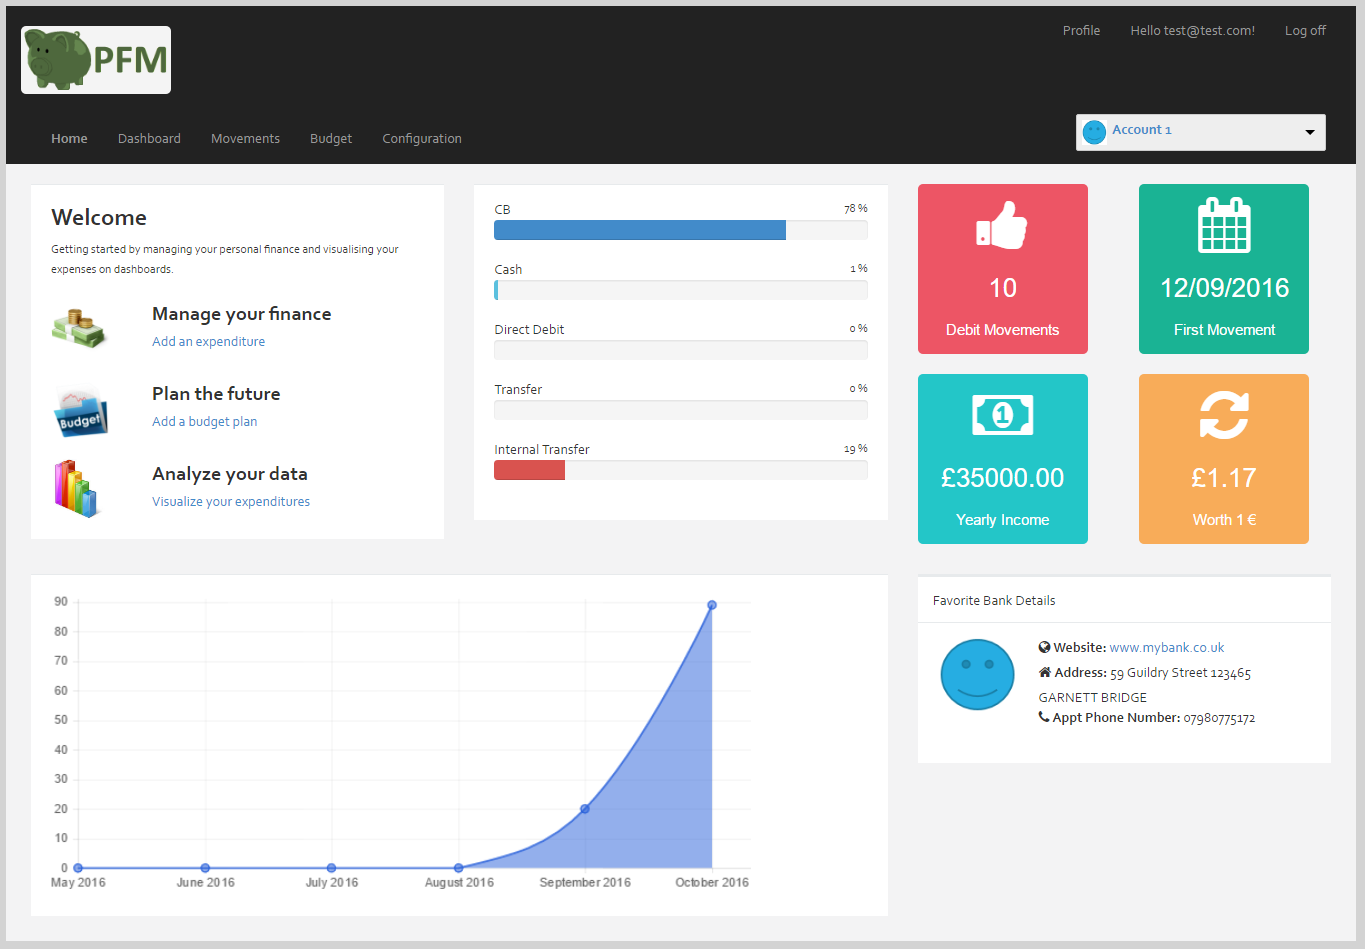
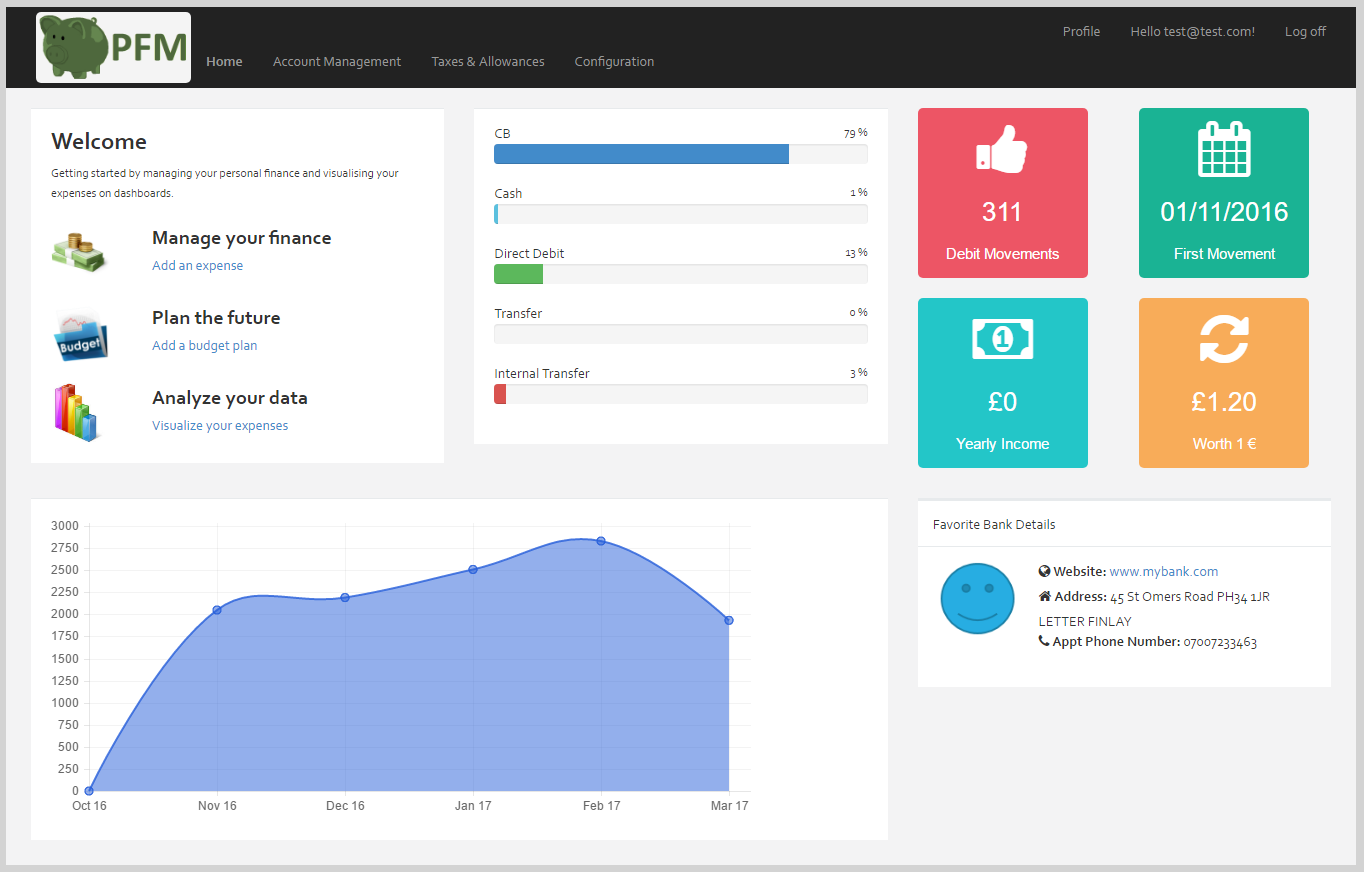
Fixing few bugs and updating the documentation

diff --git a/PersonalFinanceManager/Controllers/HomeController.cs b/PersonalFinanceManager/Controllers/HomeController.cs
@@ -42,7 +42,7 @@ namespace PersonalFinanceManager.Controllers
 
             var model = new HomePageModel();
 
-            var debitMvts = this._expenditureService.GetExpenditures(new Models.SearchParameters.ExpenditureGetListSearchParameters());
+            var debitMvts = this._expenditureService.GetExpenditures(new Models.SearchParameters.ExpenditureGetListSearchParameters() { UserId = CurrentUser });
 
             if (debitMvts.Count != 0)
             {
@@ -127,7 +127,7 @@ namespace PersonalFinanceManager.Controllers
             var intervalsByMonth = interval.GetIntervalsByMonth();
 
             var dataSetActualExpenditures = new ChartDataset();
-            var expenditures = _expenditureService.GetExpenditures(new Models.SearchParameters.ExpenditureGetListSearchParameters() { StartDate=interval.StartDate, EndDate=interval.EndDate });
+            var expenditures = _expenditureService.GetExpenditures(new Models.SearchParameters.ExpenditureGetListSearchParameters() { UserId = CurrentUser, StartDate = interval.StartDate, EndDate=interval.EndDate });
             foreach (var intervalByMonth in intervalsByMonth)
             {
                 var expendituresByMonth = expenditures.Where(x => intervalByMonth.Value.IsBetween(x.DateExpenditure));

diff --git a/PersonalFinanceManager.Services/ExpenditureService.cs b/PersonalFinanceManager.Services/ExpenditureService.cs
@@ -116,11 +116,15 @@ namespace PersonalFinanceManager.Services
         public IList<ExpenditureListModel> GetExpenditures(Models.SearchParameters.ExpenditureGetListSearchParameters search)
         {
             var searchParameters = Mapper.Map<Entities.SearchParameters.ExpenditureGetListSearchParameters>(search);
-            
-            var expenditures = _expenditureRepository.GetByParameters(searchParameters);
+            var expenditures = _expenditureRepository.GetByParameters(searchParameters).ToList();
+
+            if (!string.IsNullOrEmpty(search.UserId))
+            {
+                var accounts = _bankAccountRepository.GetList().Where(x => x.User_Id == search.UserId).Select(x => x.Id);
+                expenditures = expenditures.Where(x => accounts.Contains(x.AccountId)).ToList();
+            }
 
             var mappedExpenditures = expenditures.Select(Mapper.Map<ExpenditureListModel>);
-
             return mappedExpenditures.ToList();
         }
 

diff --git a/PersonalFinanceManager/Controllers/AccountManagementController.cs b/PersonalFinanceManager/Controllers/AccountManagementController.cs
@@ -24,6 +24,11 @@ namespace PersonalFinanceManager.Controllers
 
         public ActionResult Index()
         {
+            if (!HasAccount)
+            {
+                return Redirect("/BankAccount/Index");
+            }
+
             // Get current budget plan if it exists
             var budgetPlan = _budgetPlanService.GetCurrent(CurrentAccount);
 

diff --git a/PersonalFinanceManager.Models/SearchParameters/ExpenditureGetListSearchParameters.cs b/PersonalFinanceManager.Models/SearchParameters/ExpenditureGetListSearchParameters.cs
@@ -8,6 +8,8 @@ namespace PersonalFinanceManager.Models.SearchParameters
 {
     public class ExpenditureGetListSearchParameters
     {
+        public string UserId { get; set; }
+
         public int? AccountId { get; set; }
 
         public DateTime? StartDate { get; set; }

diff --git a/PersonalFinanceManager/Controllers/BaseController.cs b/PersonalFinanceManager/Controllers/BaseController.cs
@@ -62,6 +62,8 @@ namespace PersonalFinanceManager.Controllers
             }
         }
 
+        protected bool HasAccount => _bankAccountService.GetAccountsByUser(CurrentUser).Any();
+
         protected int CurrentAccount
         {
             get
